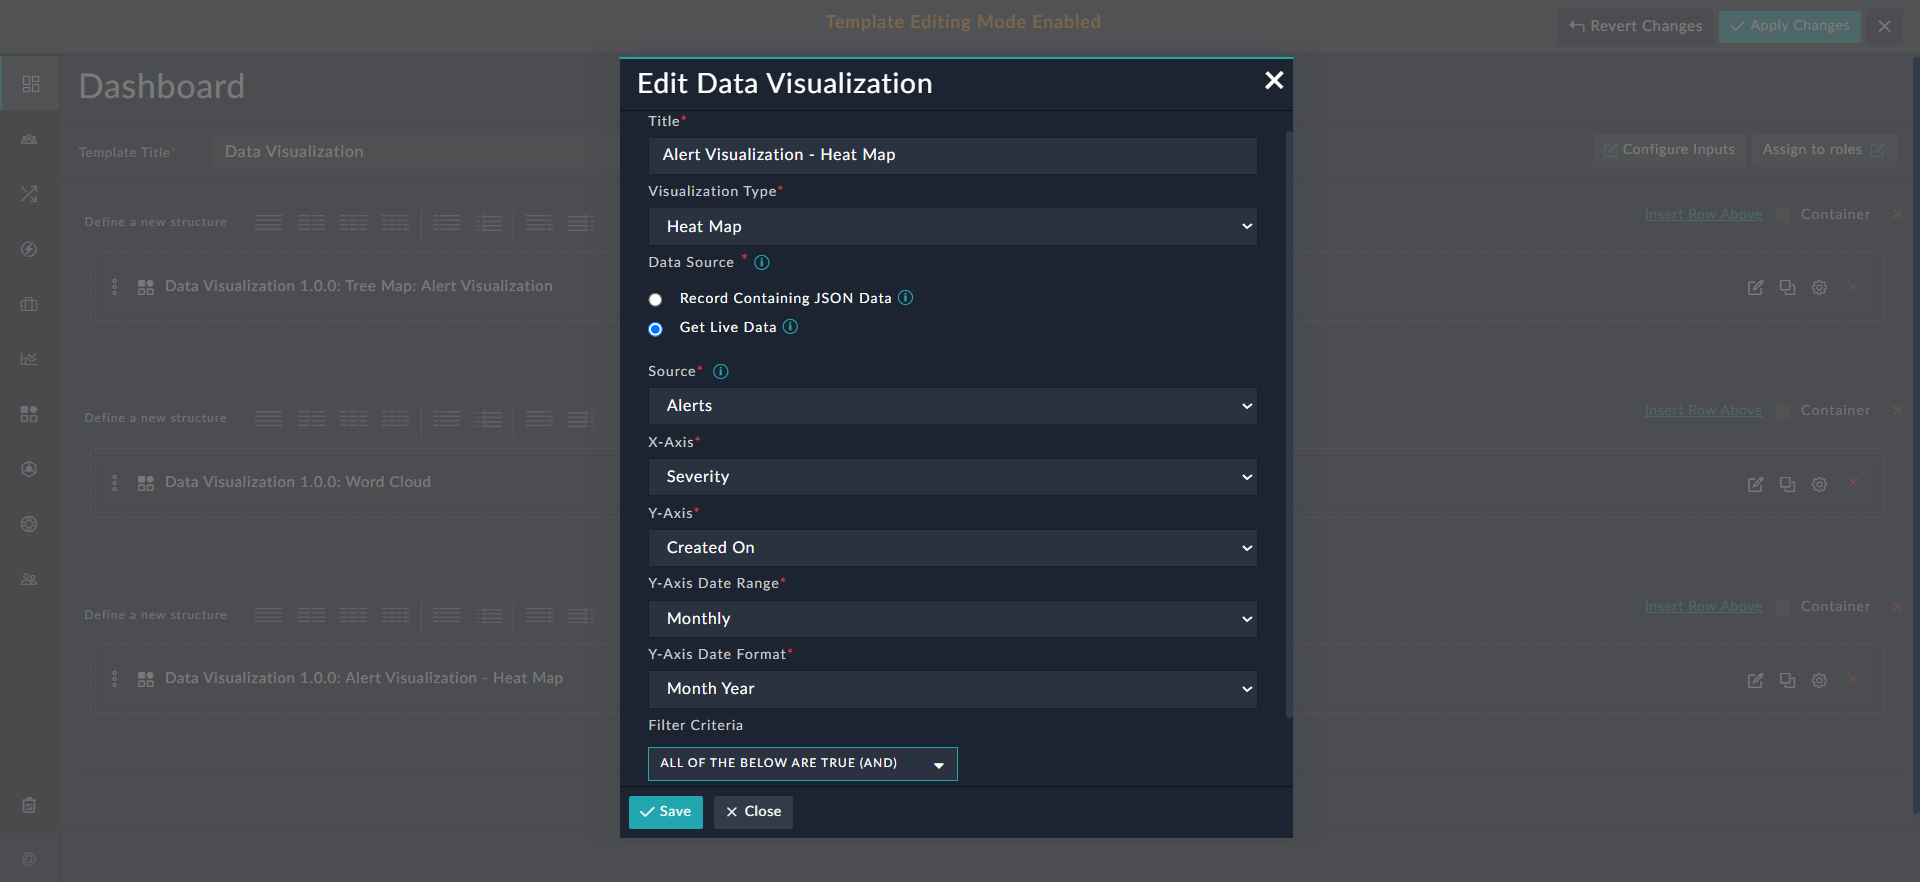
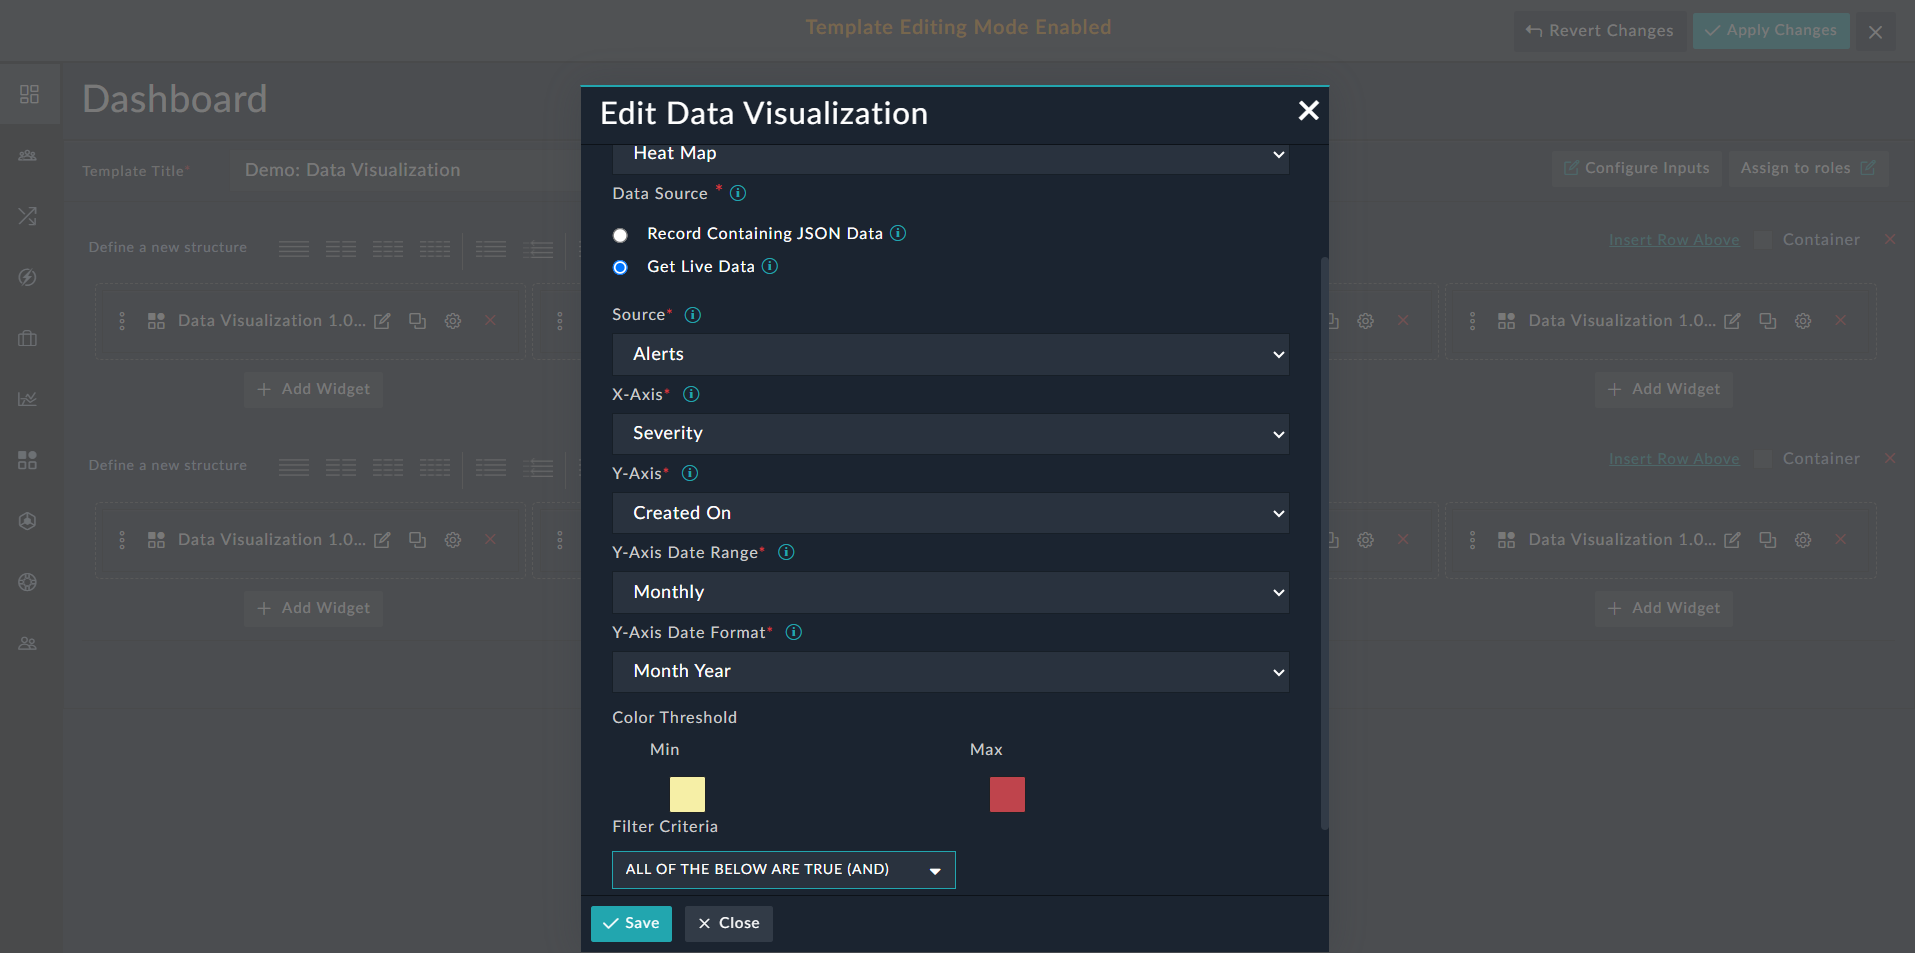
addressing comments and updating Heat Map configuration to include color threshold

diff --git a/docs/usage.md b/docs/usage.md
@@ -23,11 +23,11 @@ For example, a Sunburst chart can visualize **_Alerts_** data, with **_Severity_
 
 2. Select **Data Visualization** from the list to open the **Data Visualization** widget's customization modal.
 
-3. From the **Visualization Type** drop-down list, select **Sunburst**.
+3. In the **Title** field, specify the title of the graphical representation. 
+
+4. From the **Visualization Type** drop-down list, select **Sunburst**.
 
     ![Data Visualization Widget - Sunburst Visualization](./res/sunburst-edit-01.png)
-
-4. In the **Title** field, specify the title of the graphical representation. 
 
 5. From the **Data Source** field, select the **Record Containing JSON Data** option.
 
@@ -55,18 +55,35 @@ The **Get Live Data** option helps visualize hierarchical data as per current da
 #### Configuring the Sunburst chart with Live Data <a name="configureLiveDataSunburst"></a>
 
 1. Edit a *Dashboard*, or a *Report* and click **Add Widget**.
+
 2. Select **Data Visualization** from the list to open the **Data Visualization** widget's customization modal.
-3. From the **Visualization Type** drop-down list, select **Sunburst**.
-4. In the **Title** field, specify the title of the graphical representation. 
+
+3. In the **Title** field, specify the title of the graphical representation. 
+
+4. From the **Visualization Type** drop-down list, select **Sunburst**.
+
 5. From the **Data Source** field, select the **Get Live Data** option.
+
 6. From the **Source** drop-down list, select the module, whose data is to be represented hierarchically in the Sunburst chart. For our example, select **Alerts**.
-7. From the **Level 1** drop-down list, select the picklist to group records in the selected module. The picklist selected in **Level 1** is the **_root_** category of the hierarchical dataset appearing in the center of the circle and is used to drill-down to other hierarchical levels. For example, **_Severity_**. Successive levels represent subcategories, forming the outer circles.
+
+7. From the **Level 1** drop-down list, select the picklist to group records in the selected module. The picklist selected in **Level 1** is the **_root_** category of the hierarchical dataset appearing in the center of the circle and is used to drill-down to other hierarchical levels. For example, **_Severity_**. Successive levels represent subcategories, forming the outer circles. 
+
+   > [!TIP]  
+   > For MSSP setups, the 'Tenant' lookup field is also supported for grouping of records.
+
 8. From the **Level 2** drop-down list, select the picklist that will be the **_second_** level of the hierarchical dataset, and appear at the second level in the circle.  For example, **_Type_**.
+
 9. From the **Level 3** drop-down list, select the picklist that will be the **_third_** level of the hierarchical dataset, and appear at the outer-most level in the circle.  For example, **_Status_**.
+
 10. (Optional) In the **Filter Criteria** field, add conditions (key) to filter data, ensuring only relevant records are retrieved for the visualization. For example, use `Status Not Equals Closed` to exclude closed alerts.  
-  To learn more about using filter criteria, refer to the [Nested Filter](https://docs.fortinet.com/document/fortisoar/7.6.2/user-guide/207943/dashboards-templates-and-widgets#Nested-Filters) section of the FortiSOAR™ User Guide.  
-   ![Configuring Sunburst Visualization Using Alert Static Data](./res/sunburst-edit-LiveData-01.png)    
+ To learn more about using filter criteria, refer to the [Nested Filter](https://docs.fortinet.com/document/fortisoar/7.6.2/user-guide/207943/dashboards-templates-and-widgets#Nested-Filters) section of the FortiSOAR™ User Guide.  
+ ![Configuring Sunburst Visualization Using Alert Static Data](./res/sunburst-edit-LiveData-01.png)    
+
 11. Click **Save** to save the configuration.
+
+
+> [!TIP]  
+> Follow the same procedure for configuring other charts using static data.
 
 
 ### Visualizing Alert Data in a Sunburst Chart
@@ -1548,7 +1565,7 @@ A Heat Map chart visualizes data in a matrix, where individual values are repres
 The **Record containing JSON Data** option retrieves and displays data stored in the  `JSON` format from a specific field of a module. You can also filter data that meets specific conditions. 
 
 > [!NOTE]  
-> The procedure for configuring Tree Map with static data is the same as for the Sunburst chart as described in the  [Configuring the Sunburst chart with Static Data](#configureStaticData) section.
+> The procedure for configuring Heat Map with static data is the same as for the Sunburst chart as described in the  [Configuring the Sunburst chart with Static Data](#configureStaticData) section.
 
 A sample of a `JSON` type field is given [here](#sampleJsonHeatMap).
 
@@ -1560,8 +1577,8 @@ The **Get Live Data** option visualizes data in a matrix based on real-time info
 
 1. Edit a *Dashboard*, or a *Report* and click **Add Widget**.
 2. Select **Data Visualization** from the list to open the **Data Visualization** widget's customization modal.
-3. From the **Visualization Type** drop-down list, select **Heat Map**.
-4. In the **Title** field, specify the title of the graphical representation. 
+3. In the **Title** field, specify the title of the graphical representation. 
+4. From the **Visualization Type** drop-down list, select **Heat Map**.
 5. From the **Data Source** field, select the **Get Live Data** option.
 6. From the **Source** drop-down list, select the module, whose data is to be represented as a grid in the Heat Map chart. For our example, select **Alerts**.
 7. From the **X-Axis** drop-down list, select the picklist or DateTime field to be used as a category on the horizontal axis of the chart. For example, **_Severity_**. 
@@ -1569,10 +1586,11 @@ The **Get Live Data** option visualizes data in a matrix based on real-time info
    If you select a DateTime field, from the **X-Axis** or **Y-Axis** drop-down list (such as the **_Created On_** field is selected in our example) then you must configure the following additional options:
     1. **X-Axis**/**Y-Axis Date Range**: Select the date range for which to populate the data. Choose between **Monthly** or **Daily**.
     2. **X-Axis**/**Y-Axis Date Format**: Select the date format to display the data. Choose between **Month Year** or **Month Day**.
-9. (Optional) In the **Filter Criteria** field, add conditions (key) to filter data, ensuring only relevant records are retrieved for the visualization.  
+9. Define the color thresholds for the **Heat Map** visualization in the **Color Threshold** section. <br />Select the color to represent the minimum or lower level values in the grid using the **Min** picker. <br />Select the color to represent the maximum or higher level values in the grid using the **Max** picker.
+10. (Optional) In the **Filter Criteria** field, add conditions (key) to filter data, ensuring only relevant records are retrieved for the visualization.  
    To learn more about using filter criteria, refer to the [Nested Filter](https://docs.fortinet.com/document/fortisoar/7.6.2/user-guide/207943/dashboards-templates-and-widgets#Nested-Filters) section of the FortiSOAR™ User Guide.  
    ![Configuring Heat Map Visualization with Alert Live Data](./res/heatMap-edit-LiveData-01.png)    
-10. Click **Save** to save the configuration.
+11. Click **Save** to save the configuration.
 
 ### Visualizing Alert Data in a Heat Map Chart
 
@@ -1639,8 +1657,8 @@ The **Get Live Data** option visualizes text data of the selected module based o
 
 1. Edit a *Dashboard*, or a *Report* and click **Add Widget**.
 2. Select **Data Visualization** from the list to open the **Data Visualization** widget's customization modal.
-3. From the **Visualization Type** drop-down list, select **Word Cloud**.
-4. In the **Title** field, specify the title of the graphical representation. 
+3. In the **Title** field, specify the title of the graphical representation. 
+4. From the **Visualization Type** drop-down list, select **Word Cloud**.
 5. From the **Data Source** field, select the **Get Live Data** option.
 6. From the **Source** drop-down list, select the module, whose text data is to be visualized in the Word Cloud chart. For our example, select **Alerts**.
 7. From the **Word Source** drop-down list, select the picklist or text field to group records in the selected module as a source for generating the Word Cloud. The chosen field’s data will determine the size of the word. For example, **_Severity_**. 

diff --git a/docs/setup.md b/docs/setup.md
@@ -16,7 +16,7 @@ The **Data Visualization** widget provides four types of visualizations: Heat Ma
 | Fields             | Description                              |
 | ------------------ | ---------------------------------------- |
 | Title              | Specify a title for the visualization as it should appear on the dashboard or report. |
-| Visualization Type | Select the type of visualization to display on the dashboard or report. You can choose from the following options: Heat Map, Sunburst, Tree Map, or Word Cloud. |
+| Visualization Type | Select the type of visualization to display data in the preferred format on the dashboard or report. You can choose from the following options: Heat Map, Sunburst, Tree Map, or Word Cloud. |
 
 ## Data Source Selection
 
@@ -30,7 +30,7 @@ This option uses static data for rendering the visualization. Use the following 
 
 | Fields            | Description                              |
 | ----------------- | ---------------------------------------- |
-| Source            | Select the module containing the records to be displayed. The chosen module must contain JSON data. For example, the `Key Store` module. |
+| Source            | Select the module containing the records to be displayed. The chosen module must include a JSON data field. For example, the `Key Store` module. |
 | Select JSON Field | Select the field (column) of the selected module that contains the `JSON` data. Only JSON-type fields will appear in the drop-down. |
 | Filter Criteria   | Define conditions (key) to filter data,  ensuring only relevant records are retrieved for the visualization. |
 
@@ -43,8 +43,9 @@ This option renders the visualization using real-time data from the selected mod
 | Fields          | Description                              |
 | --------------- | ---------------------------------------- |
 | Source          | Select the FortiSOAR™ module whose records will be displayed. For example, **_Alerts_**. |
-| X-Axis          | Select the select the picklist or DateTime field to be used as a category on the horizontal axis of the chart. For example, **_Severity_**. |
-| Y-Axis          | Select the select the picklist or DateTime field to be used as a category on the vertical axis of the chart. For example, **_Status_**. <br />If you choose a DateTime field on the X-Axis or the Y-Axis, e.g., **_Created On_**, then you must configure the following additional options: <br /> - **X-Axis**/**Y-Axis Date Range****: Select the date range for which to populate the data. Choose between **Monthly** or **Daily**.<br /> - **X-Axis**/**Y-Axis Date Format**: Select the date format to display the data. Choose between **Month Year** or **Month Day**. |
+| X-Axis          | Select the picklist or DateTime field to be used as a category on the horizontal axis of the chart. For example, **_Severity_**. |
+| Y-Axis          | Select the picklist or DateTime field to be used as a category on the vertical axis of the chart. For example, **_Status_**. <br />If you choose a DateTime field on the X-Axis or the Y-Axis, e.g., **_Created On_**, then you must configure the following additional options: <br /> - **X-Axis**/**Y-Axis Date Range****: Select the date range for which to populate the data. Choose between **Monthly** or **Daily**.<br /> - **X-Axis**/**Y-Axis Date Format**: Select the date format to display the data. Choose between **Month Year** or **Month Day**. |
+| Color Threshold | Select the color to represent the minimum or lower level values in the grid using the **Min** picker. <br />Select the color to represent the maximum or higher level values in the grid using the **Max** picker. |
 | Filter Criteria | Define conditions (key) to filter data, ensuring only relevant records are retrieved for the visualization. |
 
 #### Sunburst and Tree Map - Get Live Data Option
@@ -54,7 +55,7 @@ The configuration for both Sunburst and Tree Map visualizations is identical:
 | Fields          | Description                              |
 | --------------- | ---------------------------------------- |
 | Source          | Select the FortiSOAR™ module whose records will be displayed. For example, **_Alerts_**. |
-| Level 1         | Select the picklist to group records in the selected module. <br />The **Sunburst** chart, represents data in concentric circles with the picklist selected for Level 1 representing the root category at the center of the circular chart. For example, **_Severity_**. Successive levels represent subcategories, forming the outer circles.<br />The **Tree Map** chart, represents data in nested rectangles, with Level 1 representing the top-level or parent categories,  while each successive level corresponds to subcategories, i.e., the nested rectangles. |
+| Level 1         | Select the picklist to group records in the selected module. <br />The **Sunburst** chart, represents data in concentric circles with the picklist selected for Level 1 representing the root category at the center of the circular chart. For example, **_Severity_**. Successive levels represent subcategories, forming the outer circles.<br />The **Tree Map** chart, represents data in nested rectangles, with Level 1 representing the top-level or parent categories,  while each successive level corresponds to subcategories, i.e., the nested rectangles.<br />**NOTE**: For MSSP setups, the 'Tenant' lookup field is also supported for grouping of records. |
 | Level 2         | Select the picklist to group records in the selected module at the **_second_** hierarchical level. For example, **_Type_**. |
 | Level 3         | Select the picklist to group records in the selected module at the **_third_** hierarchical level. For example, **_Status_**. |
 | Filter Criteria | Define conditions (key) to filter data, ensuring only relevant records are retrieved for the visualization. |

diff --git a/README.md b/README.md
@@ -14,12 +14,12 @@
 
 ## Overview
 
-Use the Data Visualization Widget to display advanced datasets and relationships in dashboards and reports. The widget leverages sophisticated tools and techniques to to present complex data visually, helping to uncover intricate patterns, relationships, and insights that simple charts may not convey. The following visualization are currently available:
+Use the Data Visualization Widget to display advanced datasets and relationships in dashboards and reports. The widget leverages sophisticated tools and techniques to present complex data visually, helping to uncover intricate patterns, relationships, and insights that simple charts may not convey. The following visualization are currently available:
 
 - **Sunburst**:  A sunburst chart visualizes hierarchical data through a series of concentric rings. The central ring represents the root category, with each successive layer representing subcategories.
 - **Heat Map**: A heatmap visually represents data using color coding to display values within a matrix.
 - **Tree Map**:  A tree map visualizes hierarchical data with nested figures, usually rectangles. Each rectangle’s area is proportional to the data value it represents, with subcategories nested inside the parent category.
-- **Word Cloud**: A word cloud visually displays text data, typically consisting of individual words, with their importance indicated by font size or color. Words of greater importance are displayed in larger sizes.
+- **Word Cloud**: A word cloud visually displays text data, typically consisting of individual words, with their importance indicated by font size or color. Words with greater importance or frequency of use are displayed in larger sizes.
 
 
 
